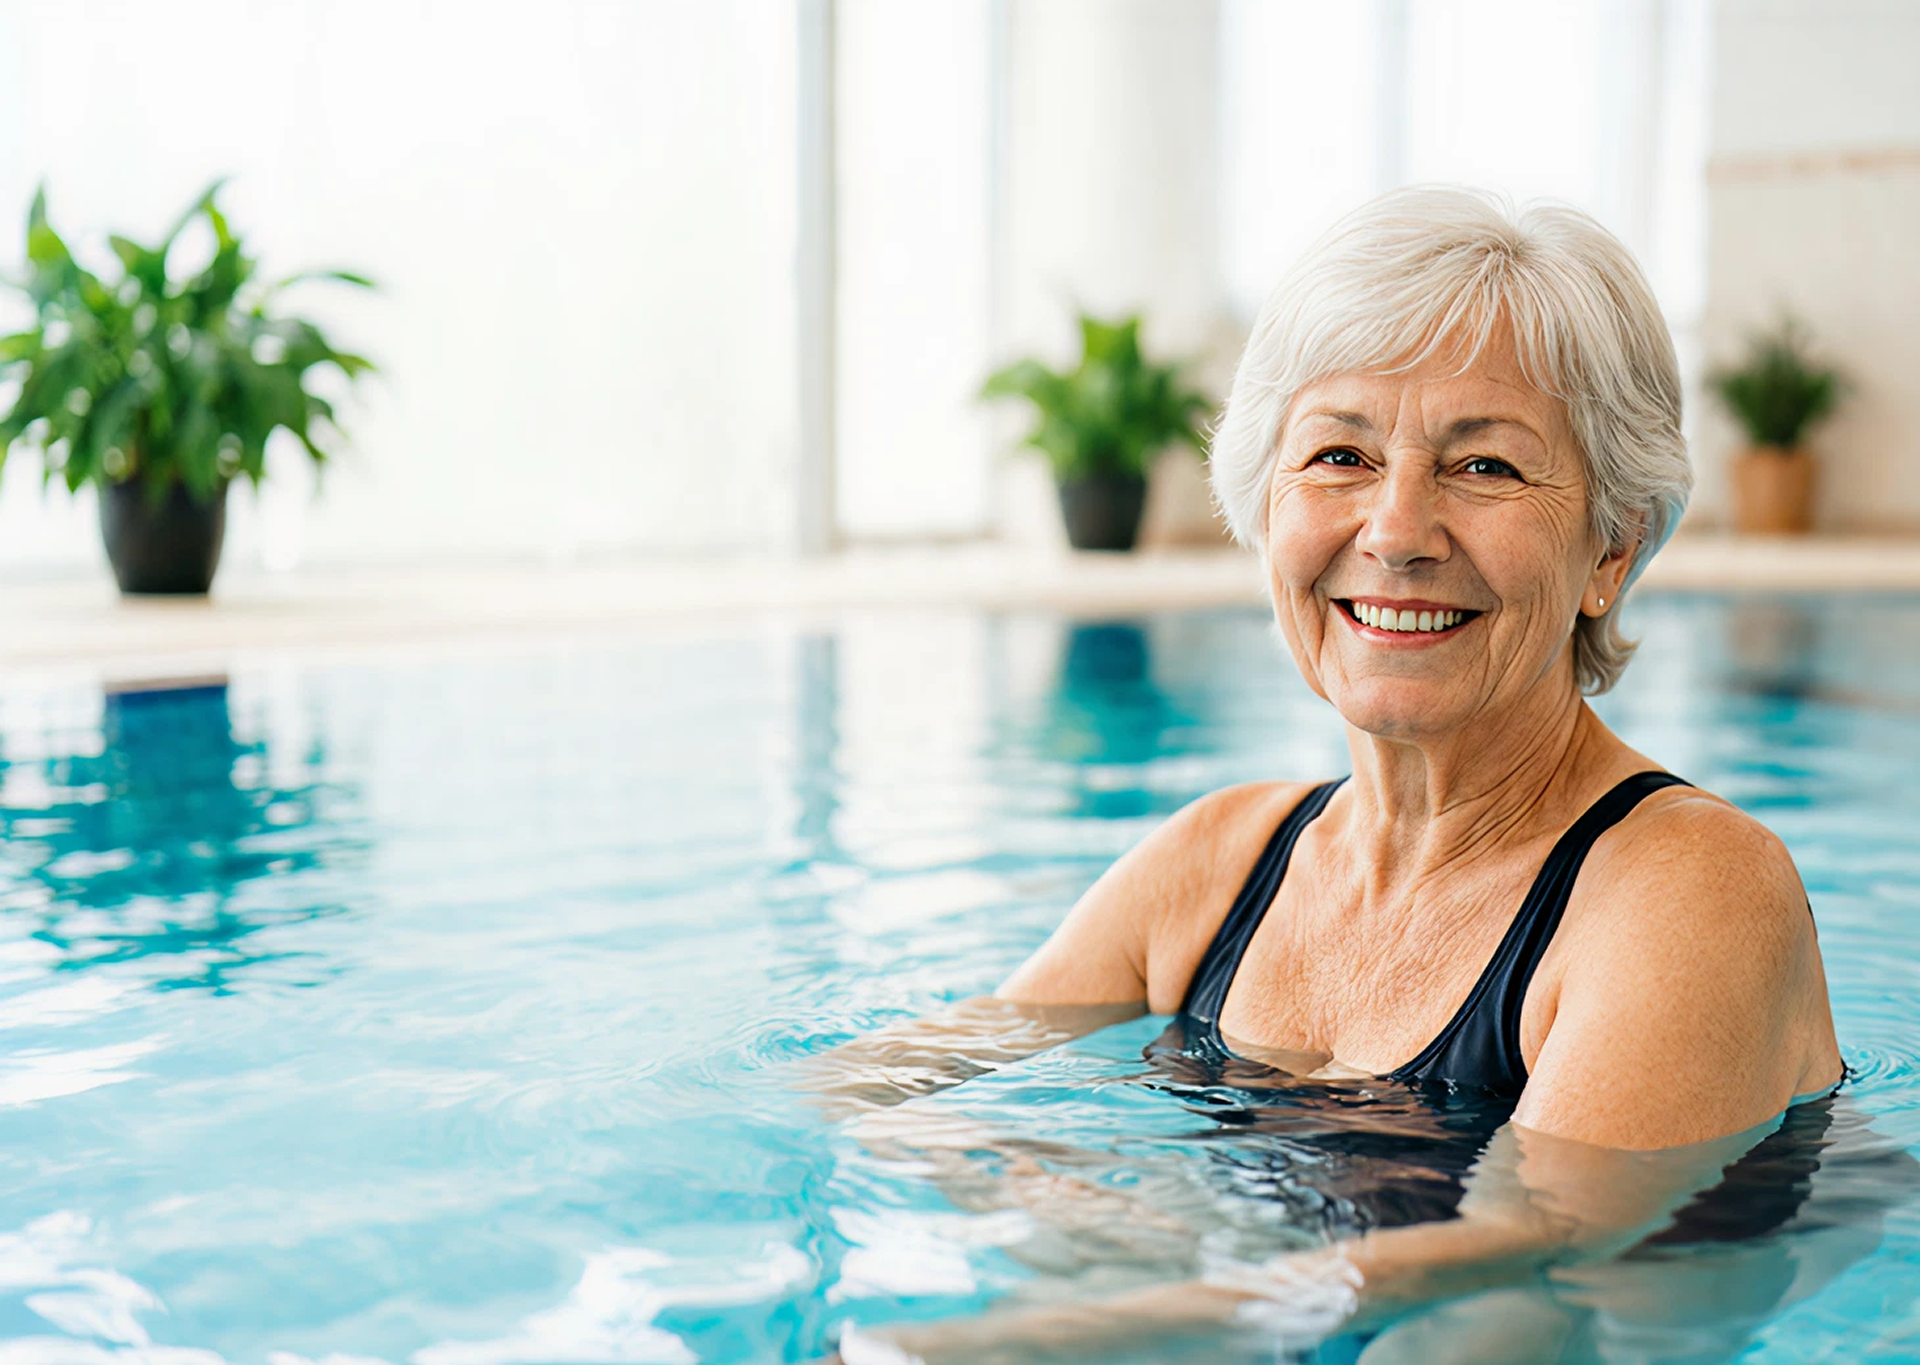
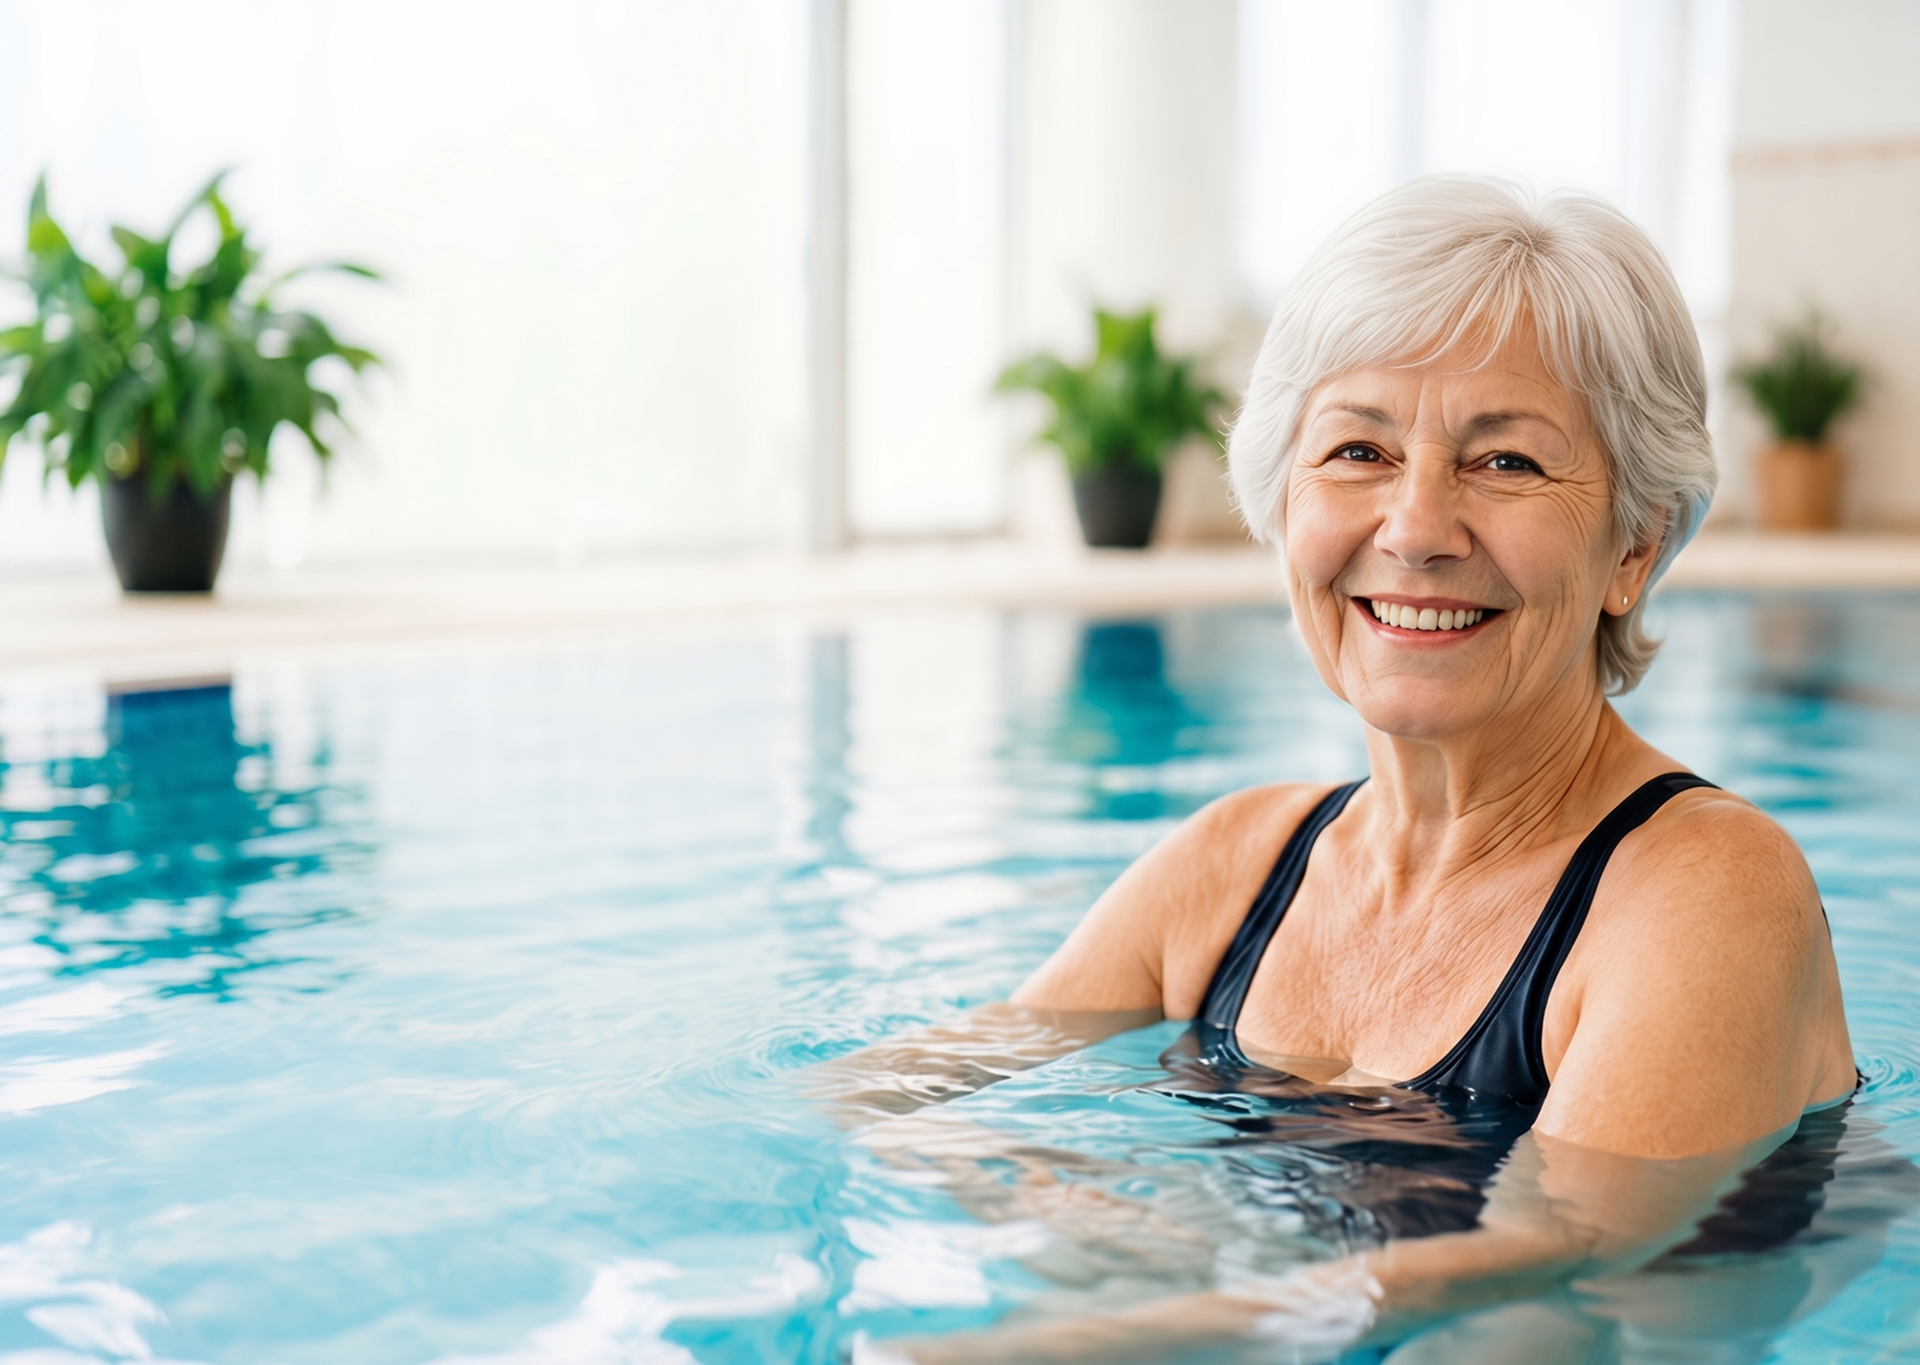
MVP-12

diff --git a/aqualady-aquaero/src/pages/HomePage.tsx b/aqualady-aquaero/src/pages/HomePage.tsx
@@ -81,14 +81,12 @@ export default function HomePage() {
             alt=""
             className="absolute inset-0 w-full h-full object-cover"
           />
-          {/* Gradient overlay */}
-          <div className="absolute inset-0 bg-gradient-to-r from-[#2C8889]/80 via-[#2C8889]/50 to-transparent" />
           {/* Content */}
           <div className="relative z-10 flex flex-col justify-center px-5 sm:px-8 lg:px-12 py-10 sm:py-16 lg:py-20 min-h-[320px] sm:min-h-[50vh] lg:min-h-[520px]">
-            <h1 className="text-2xl sm:text-3xl lg:text-4xl font-extrabold text-white leading-tight mb-2 drop-shadow-sm max-w-lg">
+            <h1 style={{ textShadow: "1px 1px 0 #2b8687" }} className="text-2xl sm:text-3xl lg:text-4xl font-extrabold text-white leading-tight mb-2 drop-shadow-lg max-w-lg">
               Akwaaerobika<br />dla kobiet 60+
             </h1>
-            <p className="text-sm sm:text-base lg:text-lg text-white/90 leading-relaxed mb-4 max-w-[320px] sm:max-w-md drop-shadow-sm">
+            <p style={{ textShadow: "1px 1px 0 #2b8687" }} className="text-sm sm:text-base lg:text-lg text-white/90 leading-relaxed mb-4 max-w-[320px] sm:max-w-md drop-shadow-lg">
               Popraw kondycje, wzmocnij stawy i znajdz nowe przyjaciolki w przyjaznej, kobiecej atmosferze.
             </p>
           </div>